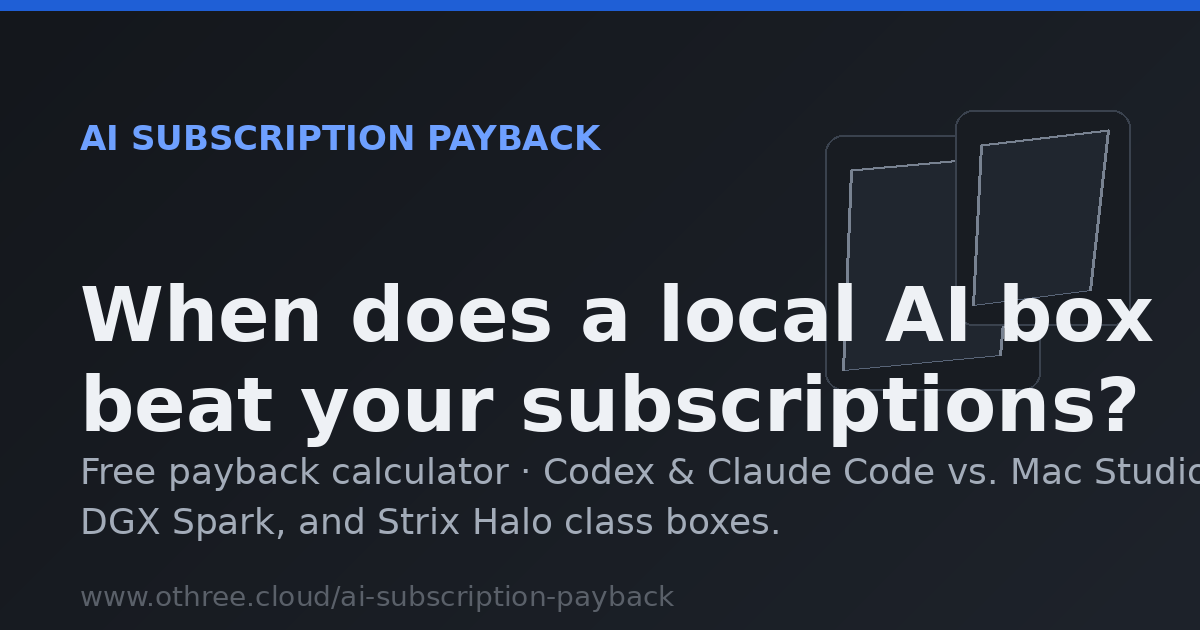
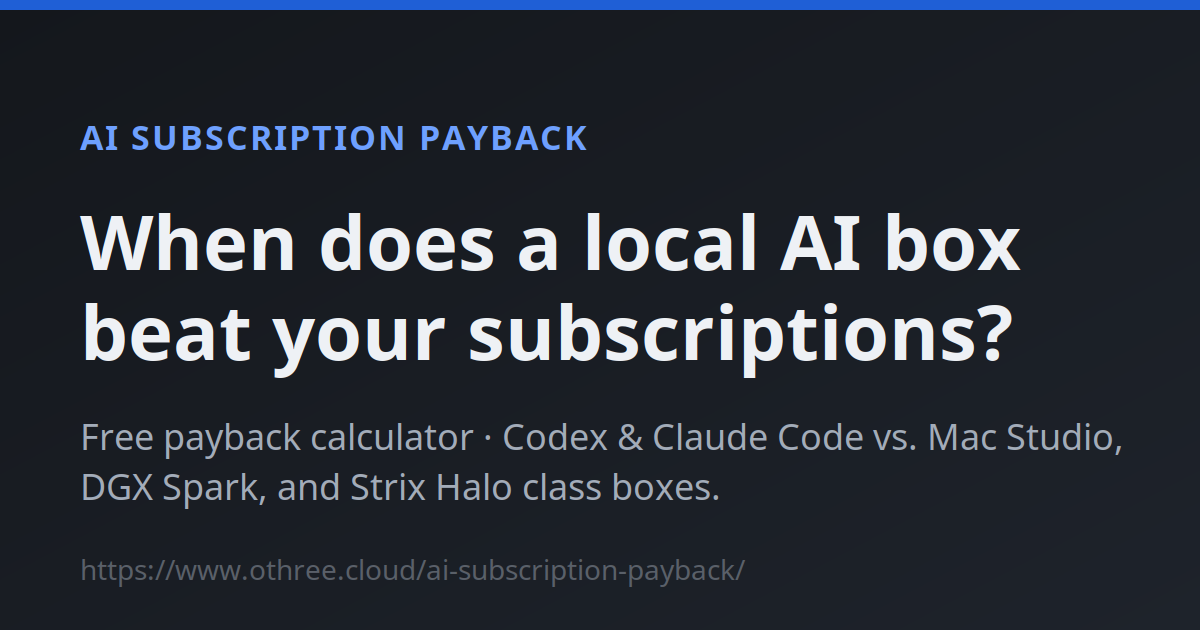
fix(seo): show canonical url on social card

diff --git a/test/seo-metadata.test.js b/test/seo-metadata.test.js
@@ -175,6 +175,11 @@ test("the social-card and favicon SVG sources use the official site name", () =>
   const icon = read("assets/img/favicon.svg");
   assert.match(og, /AI Subscription Payback/i, "og-card.svg uses the official site name");
   assert.doesNotMatch(og, /AI Box Payback/i, "og-card.svg does not use the legacy name");
+  assert.match(
+    og,
+    /https:\/\/www\.othree\.cloud\/ai-subscription-payback\//,
+    "og-card.svg shows the canonical production URL in the artwork"
+  );
   assert.match(icon, /AI Subscription Payback/i, "favicon.svg uses the official site name");
   assert.doesNotMatch(icon, /AI Box Payback/i, "favicon.svg does not use the legacy name");
 });

diff --git a/docs/bdd/seo-and-metadata.md b/docs/bdd/seo-and-metadata.md
@@ -20,6 +20,7 @@ Scenario: Shared links render a complete social card
   When the platform scrapes the page
   Then Open Graph title, description, url, site_name, and locale are present
   And an og:image with descriptive alt text is provided
+  And the social-card artwork itself shows the canonical production URL in its visible footer text
   And a Twitter card with its own title, description, and image is provided
 
 Scenario: Google AI, Mistral, and Replit tiers are discoverable in homepage copy and metadata
@@ -68,7 +69,8 @@ Scenario: Posting notes point at the social card and a clean canonical link
 
 - The launch social card lives at `assets/img/og-card.png` for broad social
   platform compatibility. The editable SVG source is kept alongside it at
-  `assets/img/og-card.svg`.
+  `assets/img/og-card.svg`, and the SVG footer text shows the canonical
+  production URL so the visible artwork reinforces the exact share origin.
 - The favicon lives at `assets/img/favicon.svg` and is declared in the
   `index.html` head via `<link rel="icon">`. The site ships from a project
   subpath, so the origin root has no `/favicon.ico`; declaring the icon